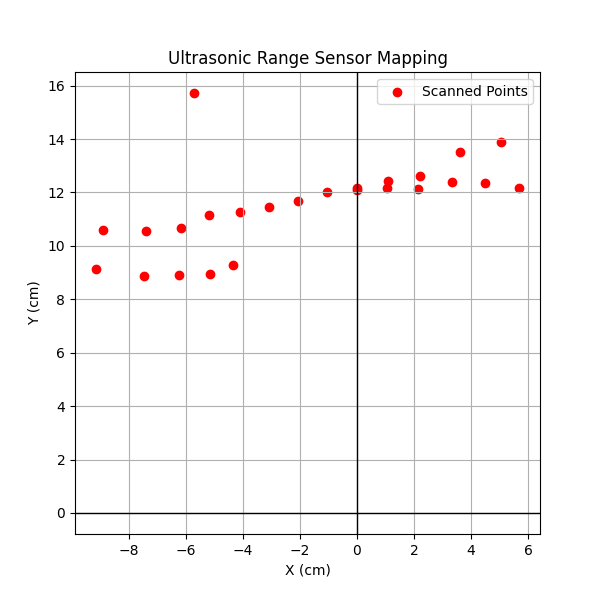
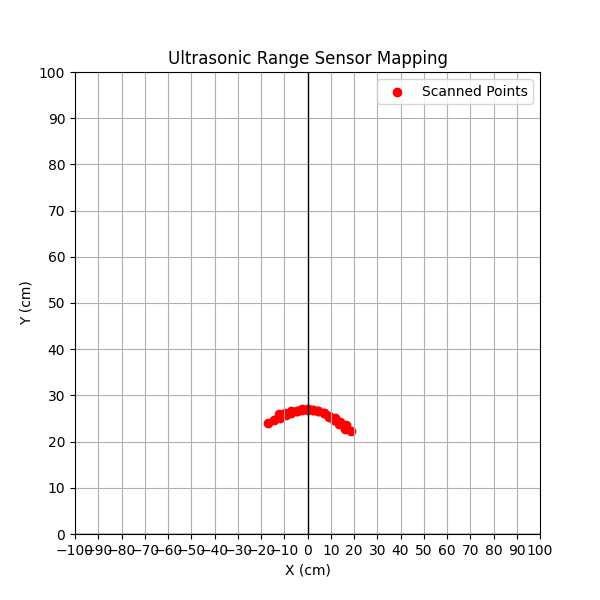
Made a few tweaks

diff --git a/Scanning.py b/Scanning.py
@@ -33,19 +33,15 @@ def real_data(scan_data):
     distances = [dist[1] for dist in scan_data]
     
     mean = statistics.mean(distances)
-    print(f"mean: {mean}")
     standard_deviation = statistics.stdev(distances)
-    print(f"standard_deviation: {standard_deviation}")
 
     threshold = 1 # This helps identify the severity of what is considered an outlier
     lower_bound = mean - (threshold * standard_deviation)
     upper_bound = mean + (threshold * standard_deviation)
 
     outliers = [x for x in distances if x < lower_bound or x > upper_bound]
-    print(f"outliers: {outliers}")
     
     real_data = [data for data in scan_data if data[1] not in outliers]
-    print(f"real_data: {real_data}")
 
     return real_data
 
@@ -78,7 +74,6 @@ def scan():
                     sleep(0.1) # Small delay for stability
 
             first_pass = False
-            print(f"scan_data: {scan_data}")
             filtered_real_data = real_data(scan_data)
             return filtered_real_data
             
@@ -88,5 +83,7 @@ def scan():
         pca.deinit()
         sensor.close()
         filtered_real_data = real_data(scan_data)
+        if not filtered_real_data:
+            return "No obstacles found"
         return filtered_real_data
         

diff --git a/ScanVisualization.py b/ScanVisualization.py
@@ -19,8 +19,13 @@ def plot_scan(data):
     plt.scatter(x_values, y_values, c='r', label="Scanned Points")
     plt.axhline(0, color='k', linewidth=1)
     plt.axvline(0, color='k', linewidth=1)
-    #plt.xlim(-200, 200)
-    #plt.ylim(-200, 200)
+    plt.xlim(-100, 100)
+    plt.ylim(0, 100)
+
+    # Set ticks every 1 unit
+    plt.xticks(range(-100, 101, 10))
+    plt.yticks(range(0, 101, 10))
+
     plt.xlabel("X (cm)")
     plt.ylabel("Y (cm)")
     plt.title("Ultrasonic Range Sensor Mapping")

diff --git a/Project03.py b/Project03.py
@@ -4,4 +4,7 @@ from ScanVisualization import plot_scan
 if __name__ == "__main__":
     print("Program is starting...")
     data = scan()
-    plot_scan(data)
+    if data:
+        plot_scan(data)
+    else:
+        print("No data found")

diff --git a/HeatMapCode.py b/HeatMapCode.py
@@ -42,4 +42,7 @@ plt.title("Potential Field for Robot Navigation")
 plt.xlabel("X")
 plt.ylabel("Y")
 plt.grid(False)
+plot_path = "heatMap.png"
+plt.savefig(plot_path)
+print(f"Plot saved as {plot_path}")
 plt.show()
